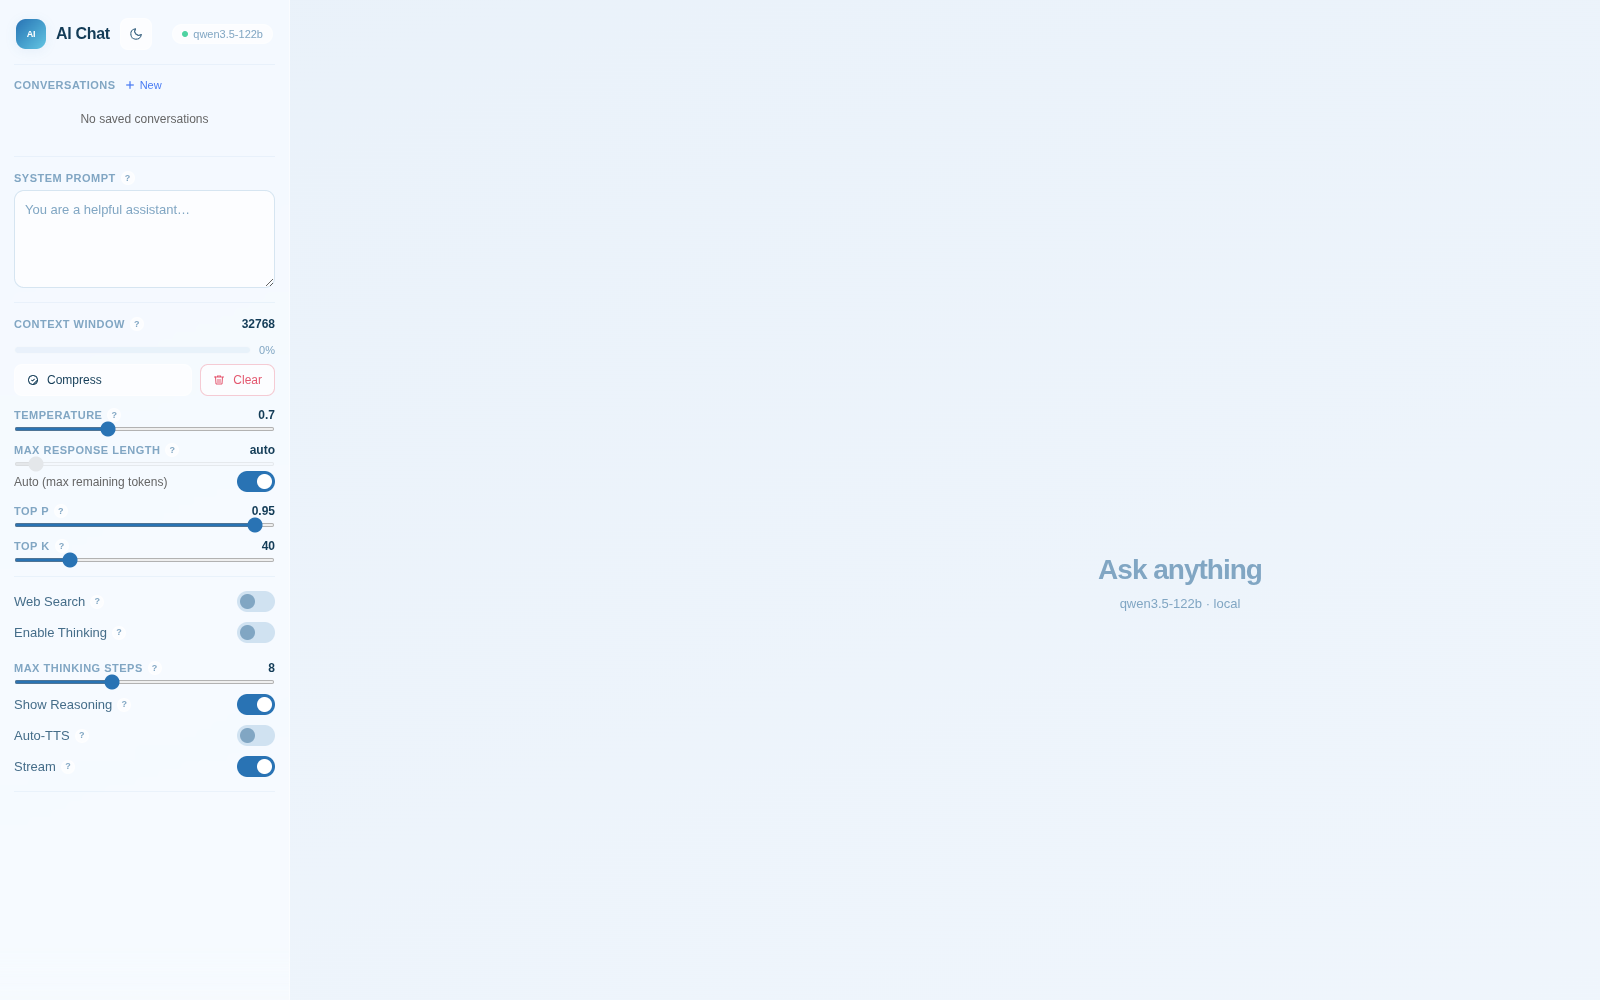
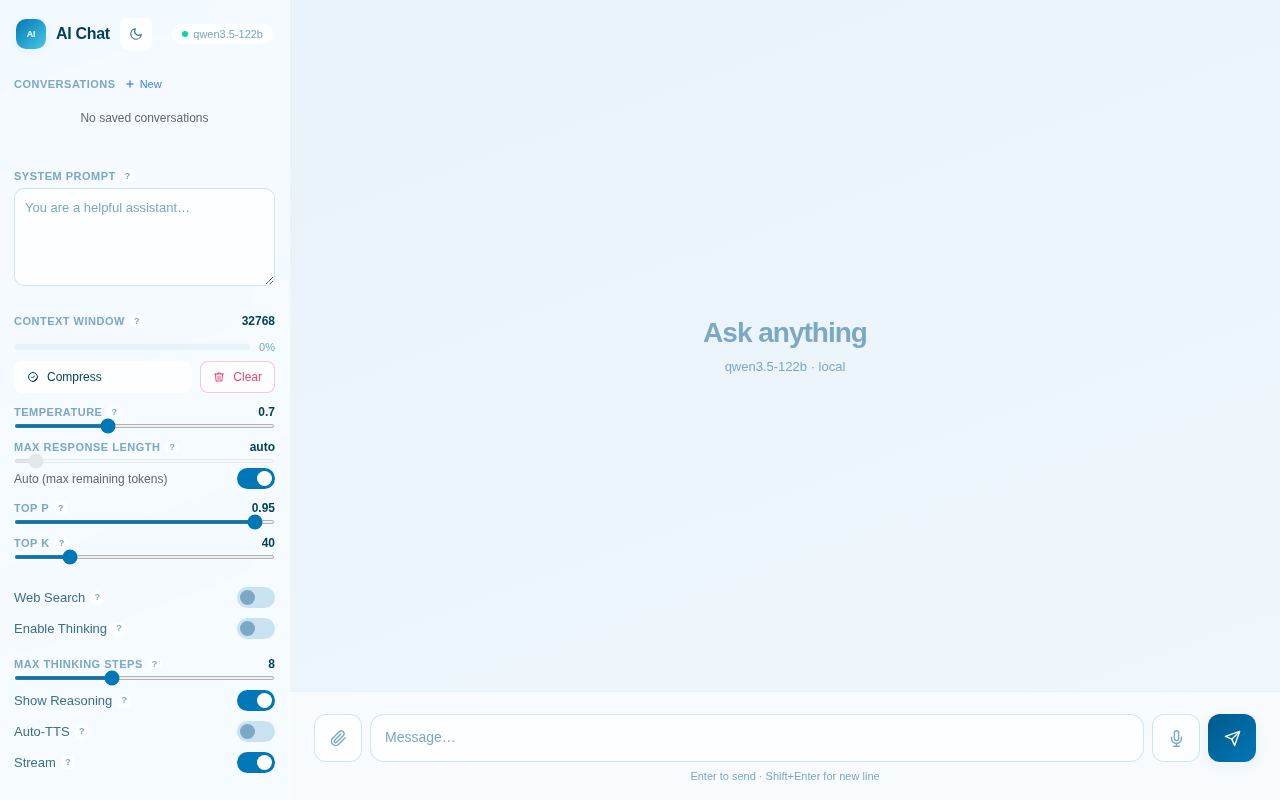
Retake screenshots with headless browser at proper 1280x800 viewport

diff --git a/index.html b/index.html
@@ -341,13 +341,13 @@
                 <h2 style="color:#d8eeff;">Three apps shipping now</h2>
                 <div class="m-app-grid">
                     <article class="m-app-card">
-                        <img class="app-thumb" src="images/apps/csv-app.png?v=20260706b" alt="CSV Extractor app" loading="lazy">
+                        <img class="app-thumb" src="images/apps/csv-app.png?v=20260706c" alt="CSV Extractor app" loading="lazy">
                         <h3>CSV Extractor</h3>
                         <p>Extract tabular data from images and export clean CSV.</p>
                         <a href="https://csv.synopustech.com" target="_blank" rel="noopener noreferrer">Open →</a>
                     </article>
                     <article class="m-app-card">
-                        <img class="app-thumb" src="images/apps/chat-app.png?v=20260706b" alt="Web Chat app" loading="lazy">
+                        <img class="app-thumb" src="images/apps/chat-app.png?v=20260706c" alt="Web Chat app" loading="lazy">
                         <h3>Web Chat</h3>
                         <p>Browser-based AI chat for quick conversations.</p>
                         <a href="https://chat.synopustech.com" target="_blank" rel="noopener noreferrer">Open →</a>
